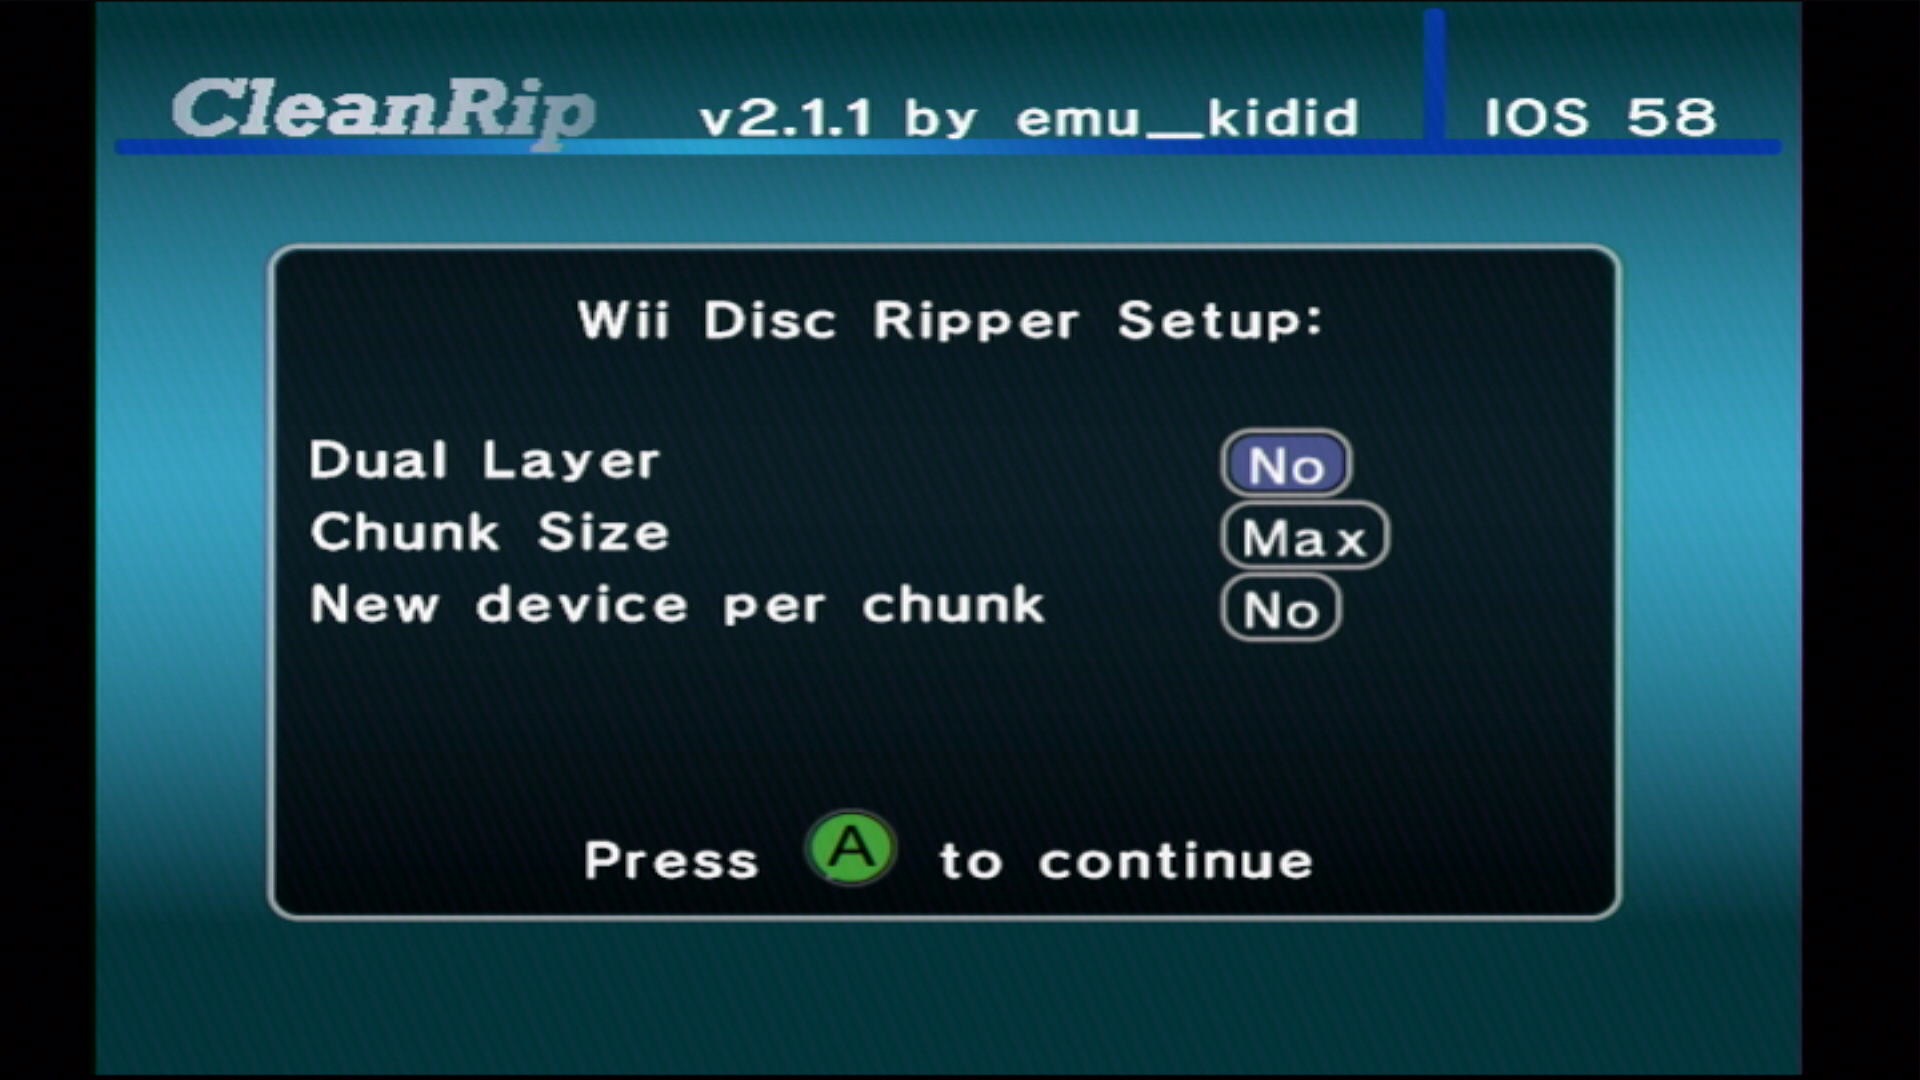
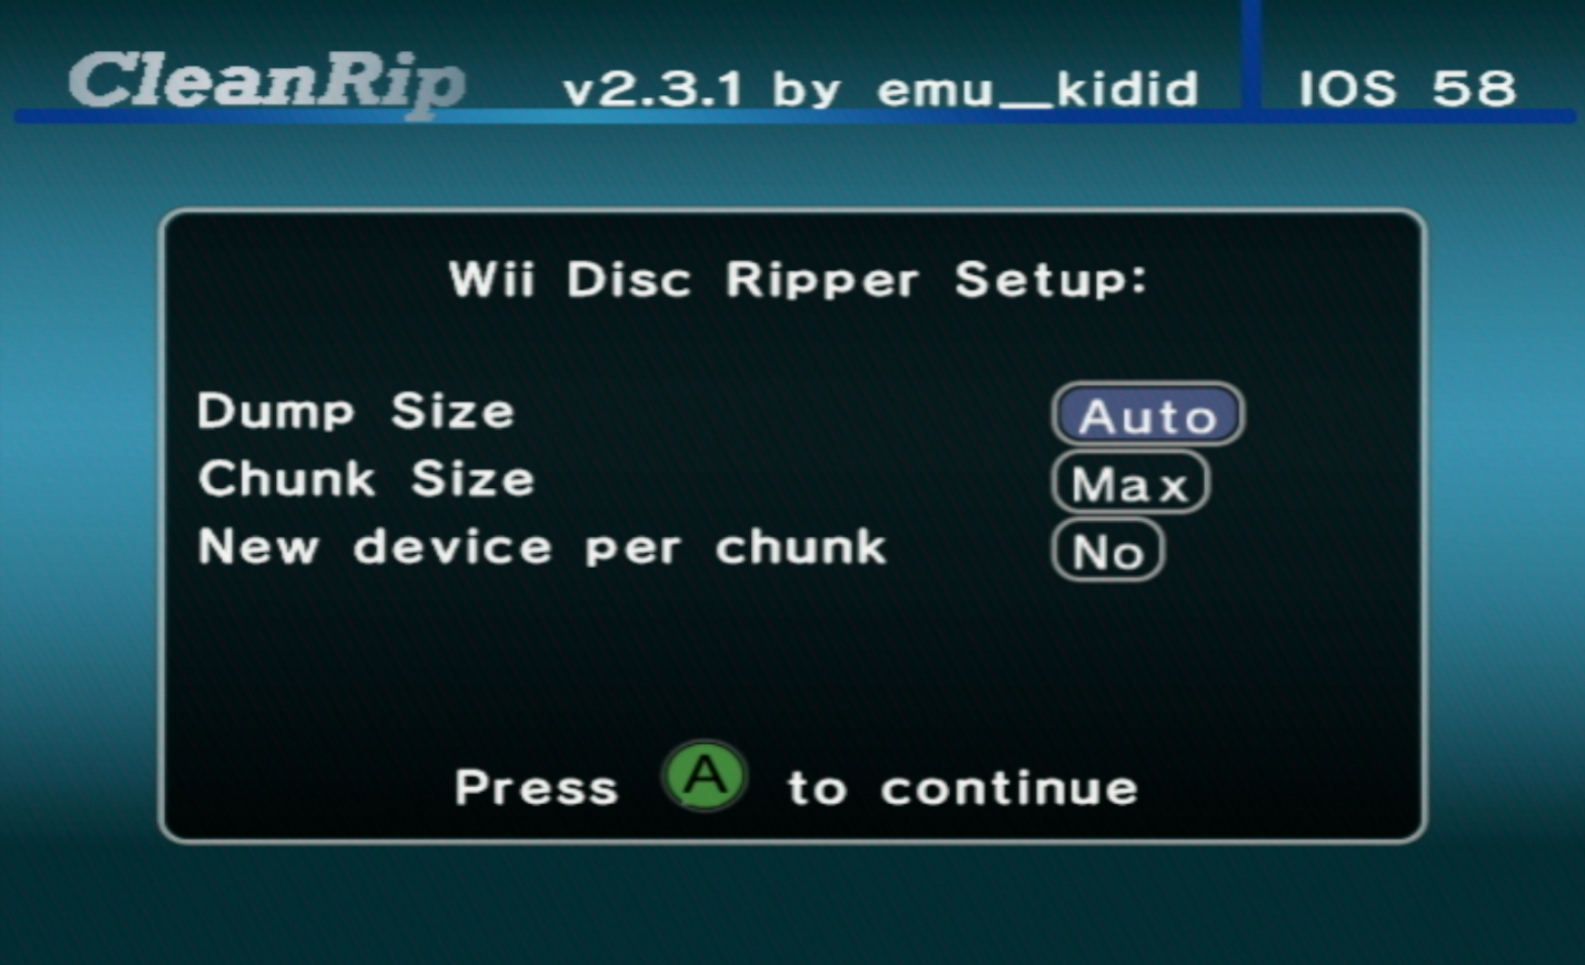
Update CleanRip instructions (#169)
* Update CleanRip settings

Update for 2.3.0+, with the new Dump Size setting

* Add a note that Dual Layer was replaced by Dump Size

* Update instructions and say to match the image.

diff --git a/docs/dump-games.md b/docs/dump-games.md
@@ -51,12 +51,6 @@ This guide covers dumping GameCube or Wii game discs to a local SD card or USB d
 
 ## Dumping a Wii Disc
 
-::: info
-
-As of v2.1.2 of CleanRip, there is an option to auto-detect whether or not the disc you have is dual layer. If you are on an earlier version, or just want to verify that the correct option is being selected, you can check [this list](https://wiki.dolphin-emu.org/index.php?title=Category:Dual_Layer_Disc_games) to see if your game is a dual layer disc.
-
-:::
-
 ::: warning
 
 If you get an unrecovered read error, ensure that the disc you are attempting to dump is clean and can be properly read by the console. Even though you may be able to play the game disc normally, you may still get this error. If the error persists, try to dump another disc and see if the same error happens.
@@ -67,7 +61,7 @@ If you get an unrecovered read error, ensure that the disc you are attempting to
 
     ![](/images/homebrew/CleanRip/dateldisc.png)
 
-1. Set the settings as shown on the screen below, while verifying if your game disc is dual layer or not.
+1. Set the settings as shown on the screen below.
 
     ![](/images/homebrew/CleanRip/wiisettings.png)
 
